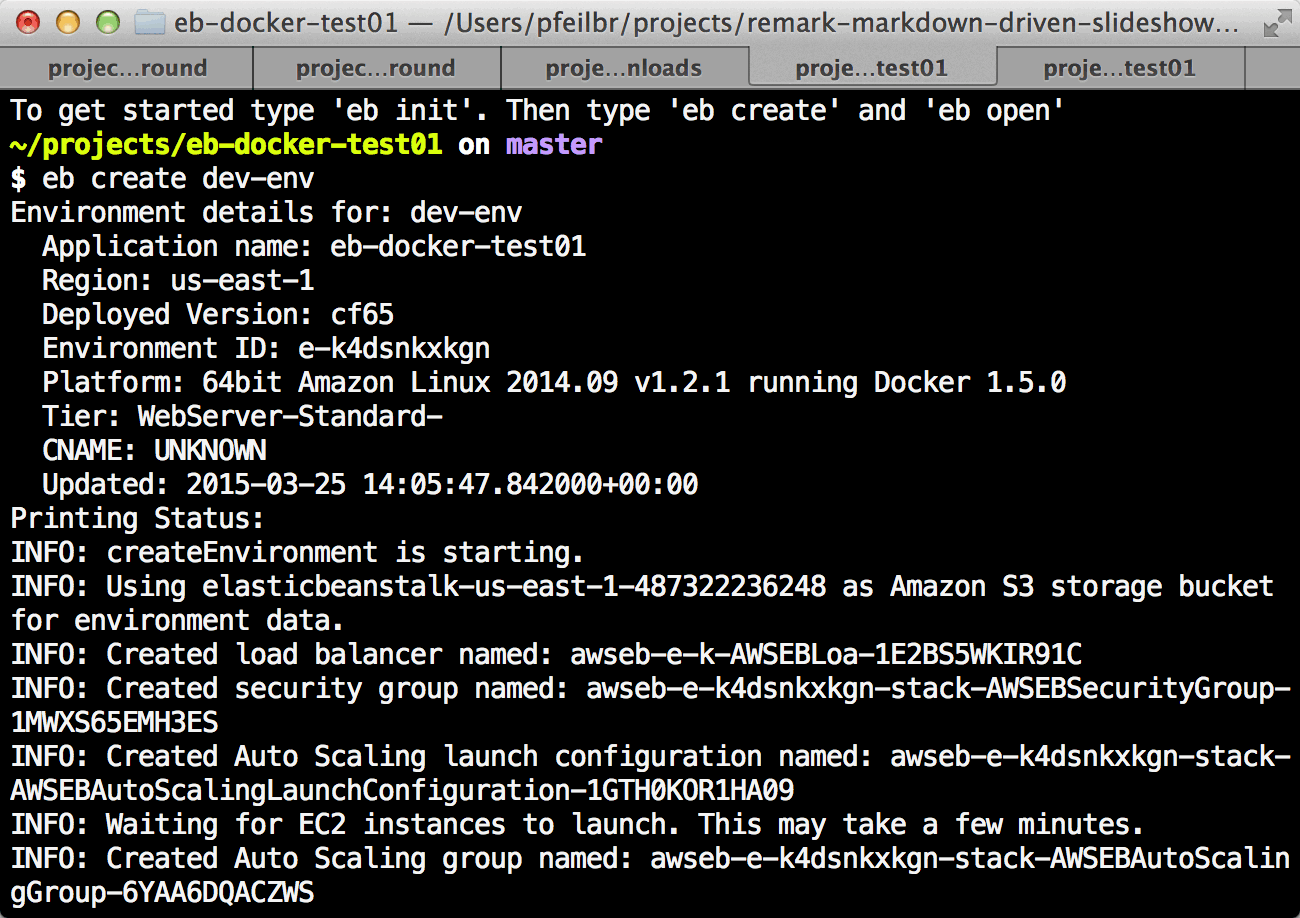
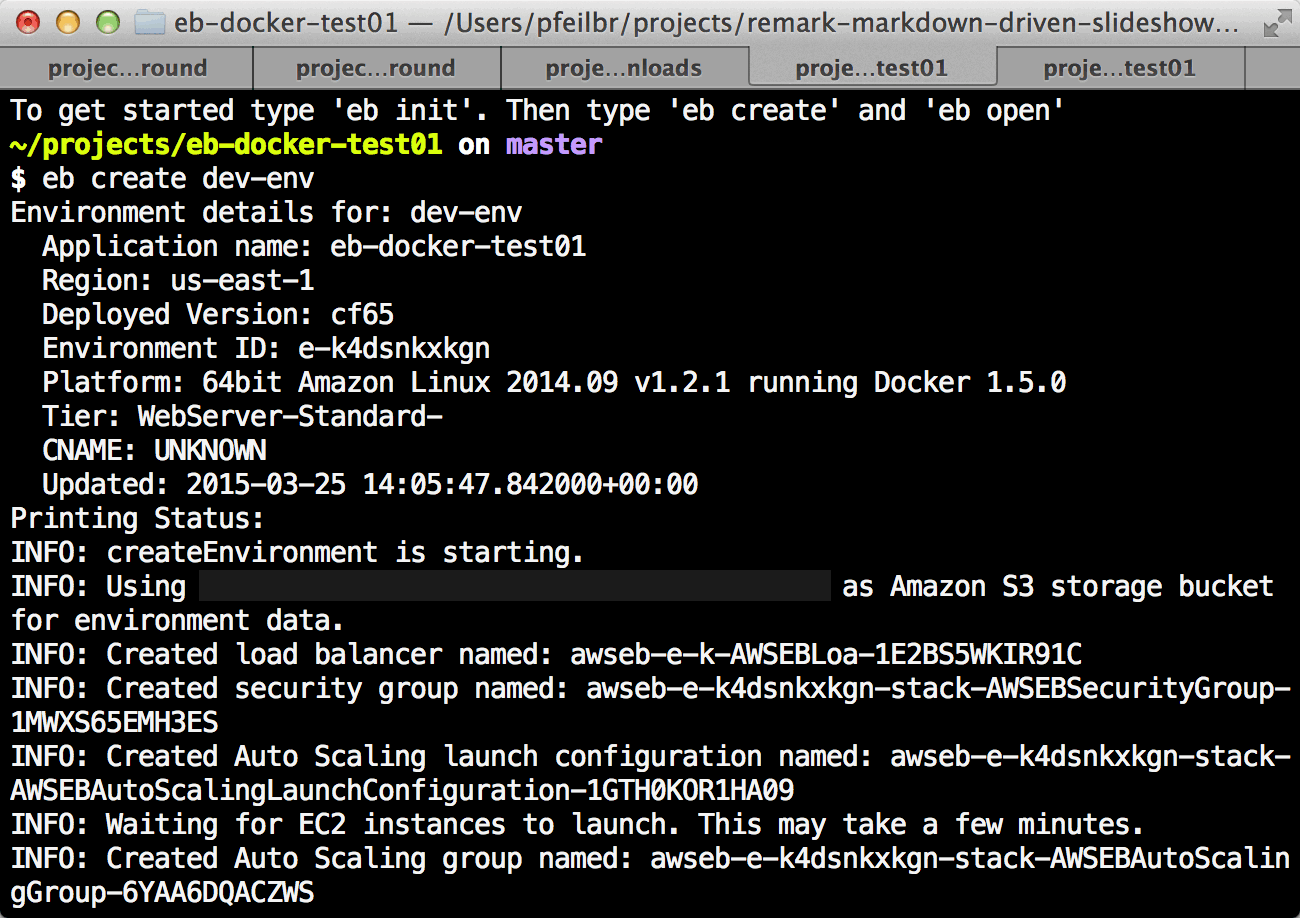
Elastic Beanstalk post: its own URL, its own screenshots
It was a loose .md in its folder, so Hugo put it at
/post/<slug>/<slug>/; now an index.md bundle at /post/<slug>/, with the
old URL redirecting. Its three screenshots were note.io links (the domain
is dead); the originals were already in images/, so the post uses them,
with alt text. Two lines were blacked out first: an employer-named key
path and an AWS account ID.

Changed region(s): [[0.1538, 0.61, 0.6462, 0.671]]

diff --git a/content/post/dockerized-nodejs-app-on-elastic-beanstalk-example/index.md b/content/post/dockerized-nodejs-app-on-elastic-beanstalk-example/index.md
@@ -1,4 +1,6 @@
 +++
+# Was a loose file in this folder, which put it at a doubled URL.
+aliases = ["/post/dockerized-nodejs-app-on-elastic-beanstalk-example/dockerized-nodejs-app-on-elastic-beanstalk-example/"]
 author = "Brian Pfeil"
 categories = ["nodejs", "docker", "elastic beanstalk", "aws"]
 date = 2015-03-25T19:06:15Z
@@ -79,7 +81,7 @@ Example of developing and deploying a [dockerized]((https://www.docker.com/)) [N
 
 **Output**
 
-![](http://note.io/1ETb45Y)
+![eb create output](images/image1.png)
 
 
 ## Deploying Updates
@@ -101,7 +103,7 @@ Example of developing and deploying a [dockerized]((https://www.docker.com/)) [N
 
 **Output**
 
-![](http://note.io/1FFQXuL)
+![eb deploy output](images/image2.png)
 
 ## Establish Interactive Bash Shell in Running Docker Container
 
@@ -125,4 +127,4 @@ Example of developing and deploying a [dockerized]((https://www.docker.com/)) [N
 
 **Example Session with Output**
 
-![](http://note.io/1CYSlIH)
+![Docker exec session in the container](images/image3.png)
